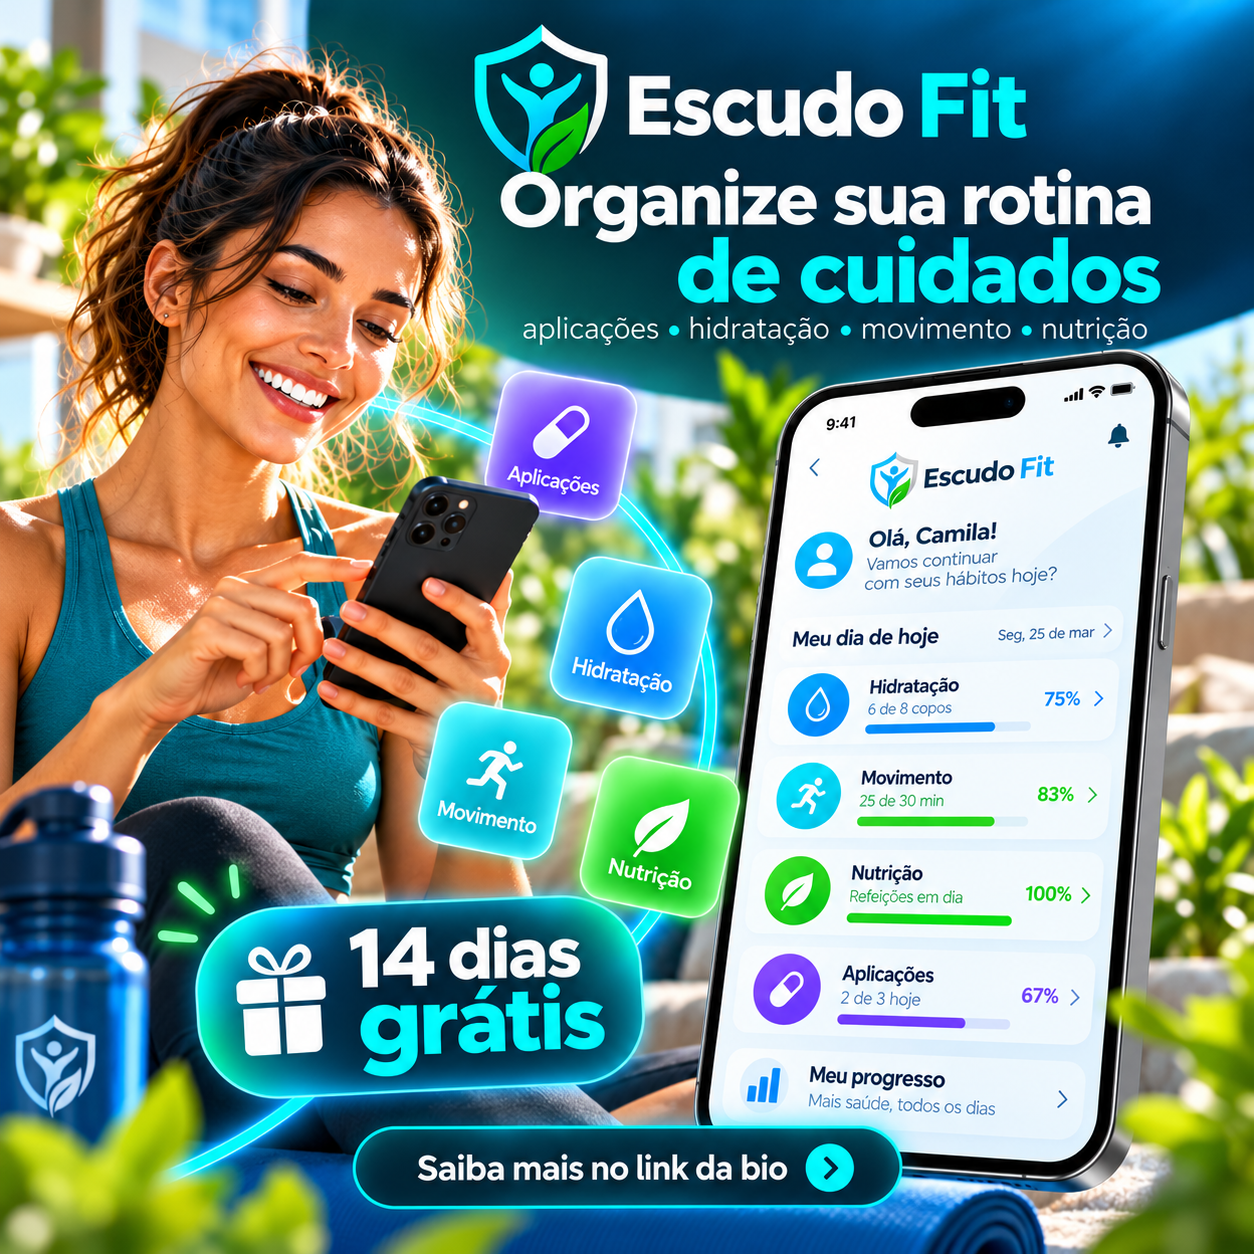
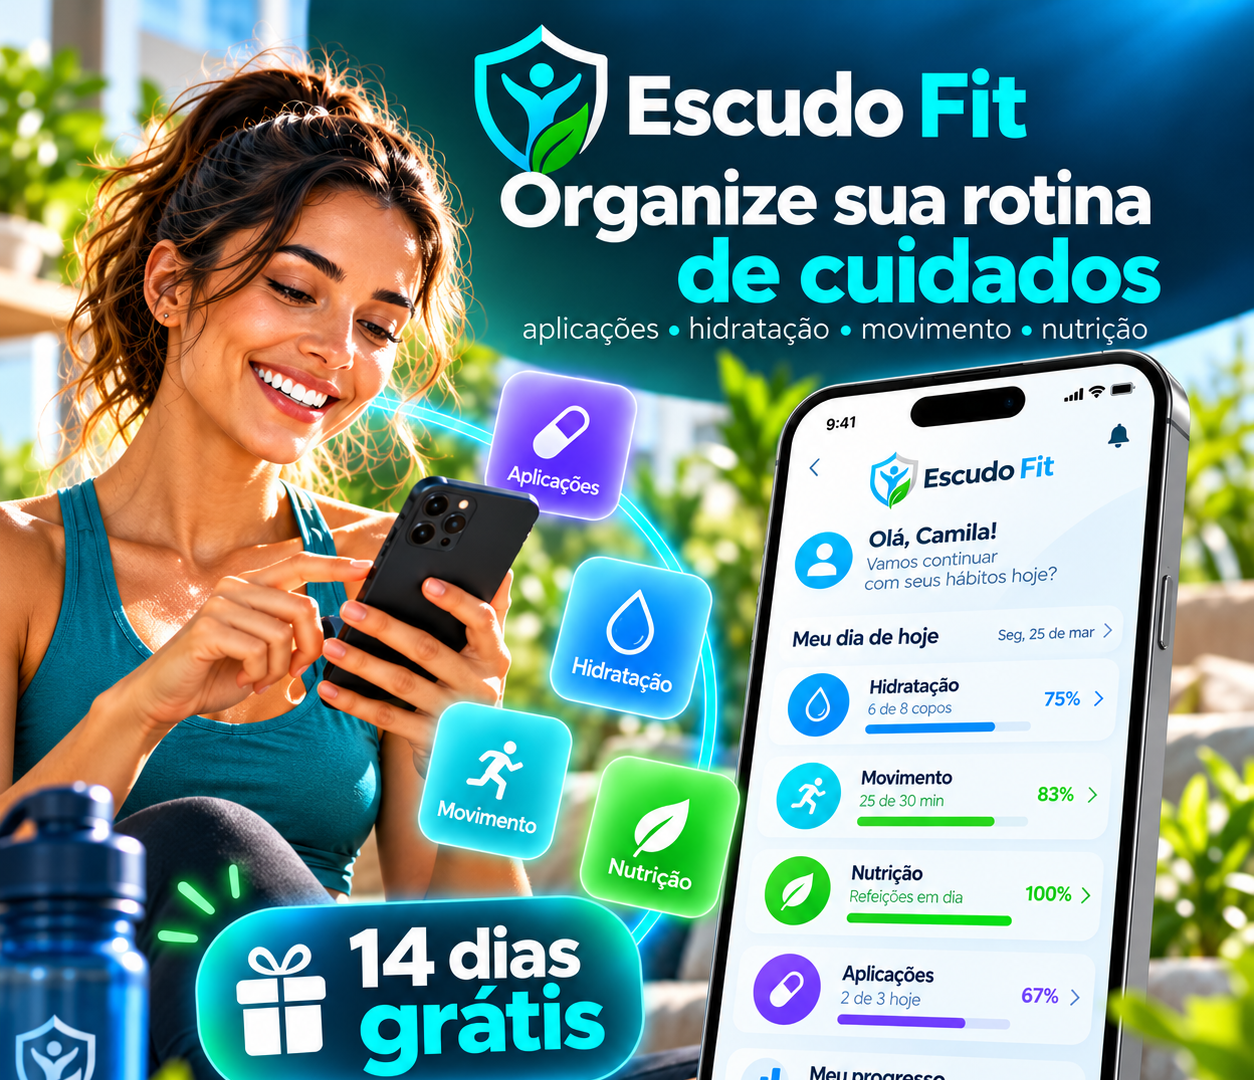
fix(web): crop campaign bio CTA and compact carousel

diff --git a/app/index.html b/app/index.html
@@ -108,7 +108,7 @@
         <div class="campaign-gallery-actions"><button class="button button-primary" data-scroll-trial>Experimentar 14 dias grátis</button></div>
       </section>
       <style>
-        .campaign-gallery{padding-block:32px}.campaign-gallery .section-heading{max-width:760px;margin-inline:auto;margin-bottom:18px}.campaign-gallery .section-heading h2{margin-bottom:8px}.campaign-carousel{display:flex;align-items:center;gap:12px;max-width:860px;margin:0 auto}.campaign-track{display:flex;gap:14px;overflow-x:auto;scroll-snap-type:x mandatory;scrollbar-width:none;overscroll-behavior-x:contain;border-radius:22px;flex:1}.campaign-track::-webkit-scrollbar{display:none}.campaign-slide{margin:0;flex:0 0 100%;scroll-snap-align:center;min-width:0;display:flex;flex-direction:column;align-items:center}.campaign-slide img{display:block;width:100%;height:min(58vw,620px);object-fit:contain;background:#102e35;border-radius:22px;box-shadow:0 18px 50px rgba(0,0,0,.22)}.campaign-slide figcaption{text-align:center;padding:9px 8px 0;color:inherit;font-size:.86rem;opacity:.82}.campaign-arrow{flex:0 0 40px;width:40px;height:40px;border:1px solid rgba(120,210,215,.4);border-radius:50%;background:#123d45;color:white;font-size:27px;line-height:1;cursor:pointer;transition:transform .18s ease,background .18s ease}.campaign-arrow:hover{transform:scale(1.06);background:#18505a}.campaign-gallery-actions{text-align:center;margin-top:14px}@media(max-width:900px){.campaign-carousel{max-width:720px}.campaign-slide img{height:min(72vw,560px)}}@media(max-width:600px){.campaign-gallery{padding-block:22px}.campaign-gallery .section-heading{margin-bottom:12px}.campaign-carousel{gap:5px;max-width:100%}.campaign-arrow{flex-basis:32px;width:32px;height:32px;font-size:22px}.campaign-slide img{height:min(78vw,460px);border-radius:16px}.campaign-slide figcaption{font-size:.8rem;padding-top:7px}.campaign-gallery-actions{margin-top:12px}}
+        .campaign-gallery{padding-block:26px}.campaign-gallery .section-heading{max-width:700px;margin-inline:auto;margin-bottom:14px}.campaign-gallery .section-heading h2{margin-bottom:6px}.campaign-carousel{display:flex;align-items:center;gap:10px;max-width:740px;margin:0 auto}.campaign-track{display:flex;gap:12px;overflow-x:auto;scroll-snap-type:x mandatory;scrollbar-width:none;overscroll-behavior-x:contain;border-radius:20px;flex:1}.campaign-track::-webkit-scrollbar{display:none}.campaign-slide{margin:0;flex:0 0 100%;scroll-snap-align:center;min-width:0;display:flex;flex-direction:column;align-items:center}.campaign-slide img{display:block;width:100%;height:min(50vw,520px);object-fit:contain;background:#102e35;border-radius:20px;box-shadow:0 14px 36px rgba(0,0,0,.2)}.campaign-slide figcaption{text-align:center;padding:7px 8px 0;color:inherit;font-size:.84rem;opacity:.8}.campaign-arrow{flex:0 0 36px;width:36px;height:36px;border:1px solid rgba(120,210,215,.4);border-radius:50%;background:#123d45;color:white;font-size:24px;line-height:1;cursor:pointer;transition:transform .18s ease,background .18s ease}.campaign-arrow:hover{transform:scale(1.05);background:#18505a}.campaign-gallery-actions{text-align:center;margin-top:12px}@media(max-width:900px){.campaign-carousel{max-width:640px}.campaign-slide img{height:min(66vw,500px)}}@media(max-width:600px){.campaign-gallery{padding-block:18px}.campaign-gallery .section-heading{margin-bottom:10px}.campaign-carousel{gap:4px;max-width:100%}.campaign-arrow{flex-basis:28px;width:28px;height:28px;font-size:20px}.campaign-slide img{height:min(72vw,390px);border-radius:14px}.campaign-slide figcaption{font-size:.78rem;padding-top:6px}.campaign-gallery-actions{margin-top:10px}}
       </style>
       <script>
         document.addEventListener('DOMContentLoaded',()=>{const track=document.getElementById('campaignTrack');if(!track)return;const step=direction=>track.scrollBy({left:direction*track.clientWidth,behavior:'smooth'});document.querySelector('[data-campaign-prev]')?.addEventListener('click',()=>step(-1));document.querySelector('[data-campaign-next]')?.addEventListener('click',()=>step(1));});

diff --git a/app/sw.js b/app/sw.js
@@ -1,4 +1,4 @@
-const CACHE='escudo-fit-web-v33-carousel-refine-v1';
+const CACHE='escudo-fit-web-v34-carousel-compact-crop-v1';
 const ASSETS=[
   './',
   './index.html',
